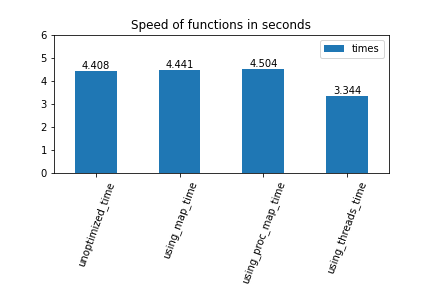
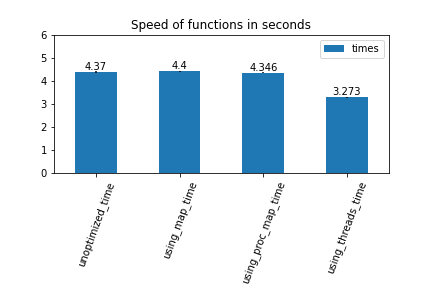
Add error bars

diff --git a/README.md b/README.md
@@ -4,4 +4,6 @@ Testing a bunch of ways to apply a function to each item in a dataframe.
 # Goal
 Find the optimal way to apply different types of functions to a large dataframe.
 
+# Results
+Each test has been run 5 times, timed and averaged with the functions time_function, and time_average respectively.
 ![out](./out.png)
